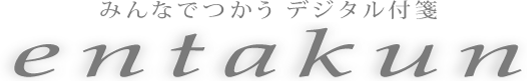
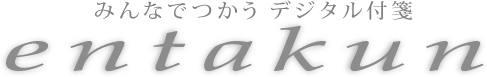
トップページのデザイン調整

diff --git a/app/css/index.css b/app/css/index.css
@@ -1,6 +1,6 @@
 .title-logo {
-  margin-left: 173px;
-  margin-top: -10px;
+  margin-left: 215px;
+  margin-top: -5px;
 }
 
 .row.center {
@@ -8,14 +8,18 @@
 }
 
 .left-block {
-  padding-left: 97px;
-  width: 330px;
+  padding-left: 80px;
+  width: 380px;
 }
 
 .right-block {
-  padding-left: 25px;
-  width: 267px;
+  padding-left: 40px;
+  width: 304px;
   text-align: center;
+}
+
+.key-visual {
+  margin-bottom: 10px;
 }
 
 h1 {
@@ -30,9 +34,10 @@ h1 {
 }
 
 .description {
-  font-size: 10px;
-  text-align: center;
+  font-size: 12px;
+  white-space: nowrap;
   margin-bottom: 20px;
+  padding: 5px;
 }
 
 .start-button {
